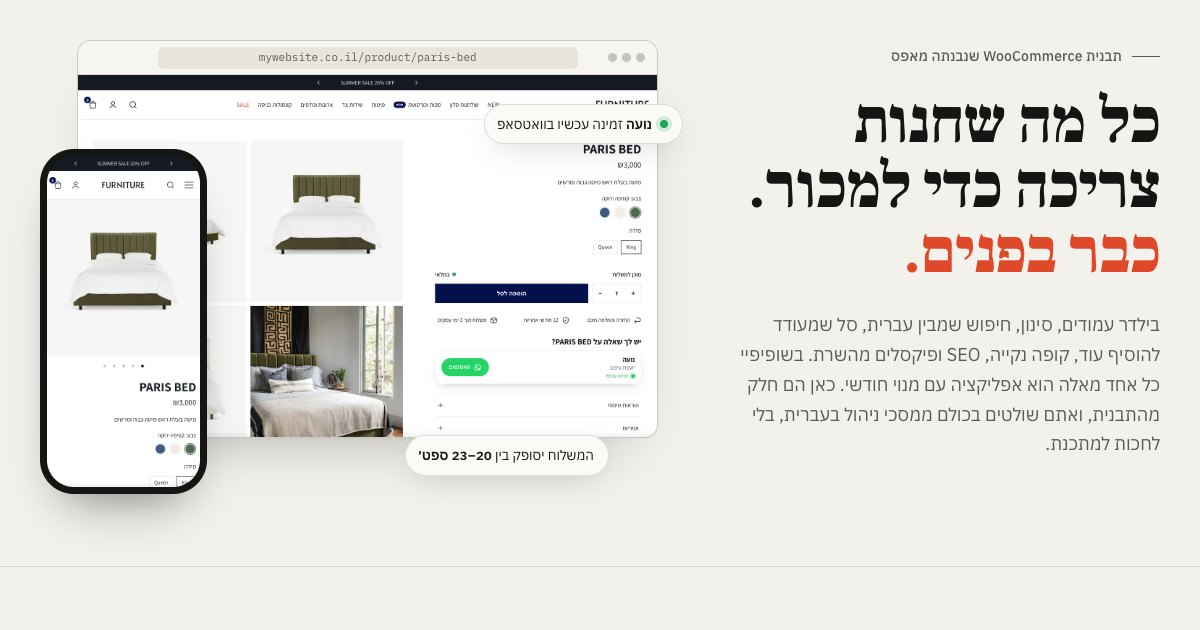
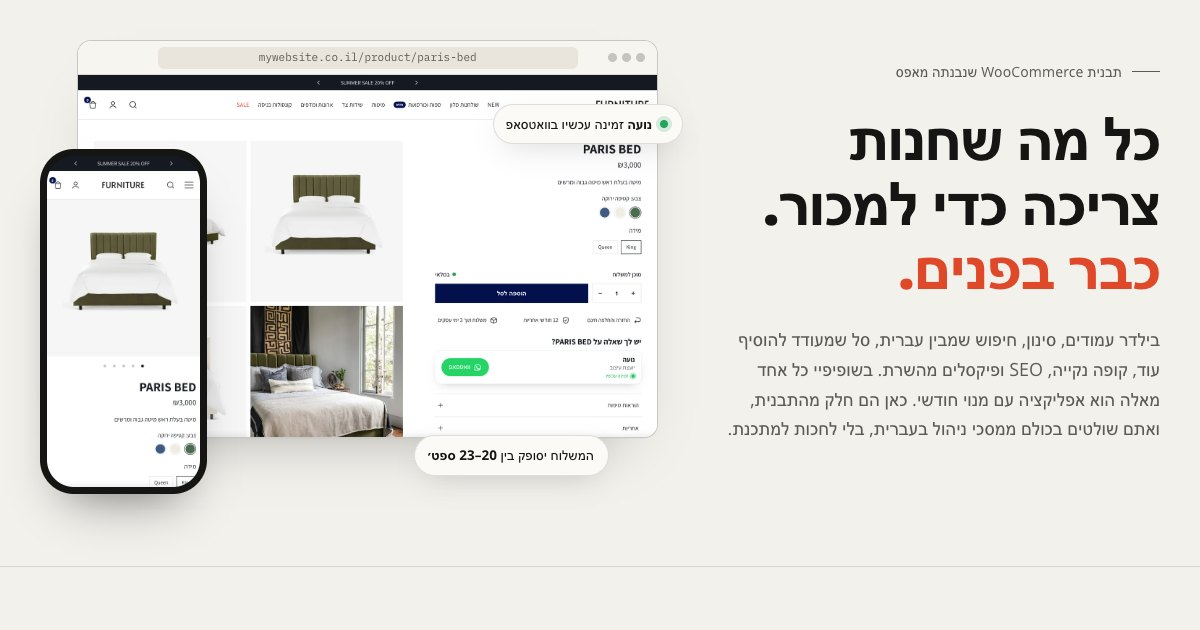
Showcase: Open Sans Hebrew throughout
George asked for Open Sans Hebrew. Headlines, body text and the large
numbers now use it (Google's early-access build: 300/400/700/800);
weights the family lacks map to the nearest one. Monospace stays only
for the address bars and the keyboard example. Preview image re-rendered.

diff --git a/showcase/styles.css b/showcase/styles.css
@@ -6,8 +6,8 @@
   --accent:#E0482A; --accent-2:#FBE3DC;
   --good:#1D6A4A; --good-2:#DDEEE5;
   --dark:#141412; --dark-2:#1D1D1A; --dark-line:rgba(243,241,236,.14); --dark-ink-2:#B4B1A7;
-  --serif:"Frank Ruhl Libre", "David Libre", Georgia, serif;
-  --sans:"IBM Plex Sans Hebrew", "Rubik", "Segoe UI", Arial, sans-serif;
+  --serif:"Open Sans Hebrew", "Open Sans", Arial, sans-serif;
+  --sans:"Open Sans Hebrew", "Open Sans", Arial, sans-serif;
   --mono:"IBM Plex Mono", ui-monospace, Menlo, monospace;
   --wrap:1240px; --gut:clamp(18px,4vw,40px);
   --r:14px;
@@ -29,14 +29,14 @@ button{font:inherit;color:inherit}
 .top.is-stuck{border-bottom-color:var(--line)}
 .top__in{display:flex;align-items:center;gap:22px;height:64px}
 .brand{display:flex;align-items:baseline;gap:10px;text-decoration:none;white-space:nowrap}
-.brand b{font-family:var(--sans);font-weight:600;letter-spacing:-.01em;font-size:17px;direction:ltr}
+.brand b{font-family:var(--sans);font-weight:700;letter-spacing:-.01em;font-size:17px;direction:ltr}
 .brand span{font-family:var(--mono);font-size:10.5px;color:var(--ink-3);letter-spacing:.08em;direction:ltr}
 .chapters{display:flex;gap:2px;margin-inline-start:auto;overflow-x:auto;scrollbar-width:none}
 .chapters::-webkit-scrollbar{display:none}
 .chapters a{font-size:14px;text-decoration:none;color:var(--ink-2);padding:6px 10px;border-radius:999px;white-space:nowrap;transition:color .15s,background .15s}
 .chapters a:hover{color:var(--ink)}
 .chapters a.is-on{background:var(--ink);color:var(--paper)}
-.btn{display:inline-flex;align-items:center;gap:10px;font-weight:600;font-size:15px;text-decoration:none;padding:12px 20px;border-radius:999px;border:1px solid var(--ink);background:var(--ink);color:var(--paper);white-space:nowrap;transition:transform .15s ease,background .15s,color .15s}
+.btn{display:inline-flex;align-items:center;gap:10px;font-weight:700;font-size:15px;text-decoration:none;padding:12px 20px;border-radius:999px;border:1px solid var(--ink);background:var(--ink);color:var(--paper);white-space:nowrap;transition:transform .15s ease,background .15s,color .15s}
 .btn:hover{transform:translateY(-1px)}
 .btn--ghost{background:transparent;color:var(--ink)}
 .btn--ghost:hover{background:var(--ink);color:var(--paper)}
@@ -50,10 +50,10 @@ button{font:inherit;color:inherit}
 /* ---------- hero ---------- */
 .hero{padding-block:clamp(36px,6vw,80px) clamp(40px,6vw,72px)}
 .hero__grid{display:grid;grid-template-columns:minmax(0,5fr) minmax(0,7fr);gap:clamp(28px,5vw,64px);align-items:center}
-.eyebrow{font-family:var(--sans);font-weight:500;font-size:14px;letter-spacing:.01em;color:var(--ink-2);display:flex;align-items:center;gap:10px;margin:0 0 22px}
+.eyebrow{font-family:var(--sans);font-weight:400;font-size:14px;letter-spacing:.01em;color:var(--ink-2);display:flex;align-items:center;gap:10px;margin:0 0 22px}
 .eyebrow::before{content:"";width:28px;height:1px;background:var(--ink-2)}
 h1,h2,h3{font-family:var(--serif);font-weight:700;letter-spacing:-.015em;margin:0}
-h1{font-size:clamp(40px,5.3vw,76px);line-height:1.02;font-weight:900}
+h1{font-size:clamp(38px,5vw,70px);line-height:1.08;font-weight:800;letter-spacing:-.02em}
 h1 em{font-style:normal;color:var(--accent)}
 .hero__lede{font-size:clamp(17px,1.5vw,20px);color:var(--ink-2);max-width:34em;margin:26px 0 30px}
 .hero__cta{display:flex;flex-wrap:wrap;gap:12px}
@@ -63,13 +63,13 @@ h1 em{font-style:normal;color:var(--accent)}
 .chip i{width:8px;height:8px;border-radius:50%;background:#22A45D;box-shadow:0 0 0 4px rgba(34,164,93,.18)}
 .chip--a{inset-inline-start:-4%;top:14%}
 .chip--b{inset-inline-start:8%;bottom:4%}
-.chip b{font-weight:600}
+.chip b{font-weight:700}
 @media (max-width:900px){.hero__grid{grid-template-columns:minmax(0,1fr)}.chip--a{inset-inline-start:2%;top:-12px}}
 
 .facts{display:grid;grid-template-columns:repeat(4,1fr);border-top:1px solid var(--line-2);margin-top:clamp(40px,6vw,72px)}
 .fact{padding:22px 0 0;padding-inline-end:18px}
 .fact + .fact{border-inline-start:1px solid var(--line);padding-inline-start:22px}
-.fact b{display:block;font-family:var(--mono);font-weight:500;font-size:clamp(34px,4vw,52px);line-height:1;letter-spacing:-.03em;direction:ltr;text-align:end}
+.fact b{display:block;font-family:var(--sans);font-weight:800;font-size:clamp(34px,4vw,52px);line-height:1;letter-spacing:-.03em;direction:ltr;text-align:end}
 .fact span{display:block;color:var(--ink-2);font-size:14.5px;margin-top:10px;line-height:1.45}
 @media (max-width:760px){.facts{grid-template-columns:1fr 1fr}.fact:nth-child(3){border-inline-start:0;padding-inline-start:0}.fact:nth-child(n+3){border-top:1px solid var(--line);margin-top:22px}}
 
@@ -87,27 +87,27 @@ h1 em{font-style:normal;color:var(--accent)}
 .admin .browser__url{background:#32373C;color:#C3C4C7}
 .admin .browser__dots i{background:#50575E}
 figcaption{font-size:14px;color:var(--ink-2);margin-top:12px;line-height:1.5}
-figcaption b{color:var(--ink);font-weight:600}
+figcaption b{color:var(--ink);font-weight:700}
 
 /* pins */
 .pinwrap{position:relative}
-.pin{position:absolute;transform:translate(-50%,-50%);width:28px;height:28px;border-radius:50%;background:var(--accent);color:#fff;font-family:var(--mono);font-size:13px;font-weight:500;display:grid;place-items:center;border:2px solid #fff;box-shadow:0 6px 16px -4px rgba(224,72,42,.6);transition:transform .2s;cursor:default;z-index:2}
+.pin{position:absolute;transform:translate(-50%,-50%);width:28px;height:28px;border-radius:50%;background:var(--accent);color:#fff;font-family:var(--sans);font-size:13px;font-weight:400;display:grid;place-items:center;border:2px solid #fff;box-shadow:0 6px 16px -4px rgba(224,72,42,.6);transition:transform .2s;cursor:default;z-index:2}
 .pin::after{content:"";position:absolute;inset:-7px;border-radius:50%;border:2px solid var(--accent);opacity:0;animation:ping 2.4s ease-out infinite}
 @keyframes ping{0%{transform:scale(.6);opacity:.7}80%,100%{transform:scale(1.5);opacity:0}}
 .pin.is-hot{transform:translate(-50%,-50%) scale(1.25)}
 .legend{list-style:none;margin:0;padding:0;counter-reset:lg}
 .legend li{position:relative;padding:14px 0;padding-inline-start:44px;border-top:1px solid var(--line);transition:background .15s}
 .legend li:last-child{border-bottom:1px solid var(--line)}
-.legend li::before{counter-increment:lg;content:counter(lg);position:absolute;inset-inline-start:0;top:14px;width:28px;height:28px;border-radius:50%;background:var(--ink);color:var(--paper);font-family:var(--mono);font-size:13px;display:grid;place-items:center}
+.legend li::before{counter-increment:lg;content:counter(lg);position:absolute;inset-inline-start:0;top:14px;width:28px;height:28px;border-radius:50%;background:var(--ink);color:var(--paper);font-family:var(--sans);font-weight:700;font-size:13px;display:grid;place-items:center}
 .legend li.is-hot::before{background:var(--accent)}
-.legend b{display:block;font-weight:600;margin-bottom:2px}
+.legend b{display:block;font-weight:700;margin-bottom:2px}
 .legend span{color:var(--ink-2);font-size:15.5px}
 
 /* ---------- chapters ---------- */
 .ch{padding-block:clamp(64px,9vw,128px);border-top:1px solid var(--line)}
 .ch-head{display:grid;grid-template-columns:auto minmax(0,1fr);gap:clamp(16px,3vw,40px);align-items:start;margin-bottom:clamp(34px,5vw,60px)}
-.ch-num{font-family:var(--mono);font-size:clamp(46px,6vw,84px);line-height:.9;color:transparent;-webkit-text-stroke:1px var(--ink-2);letter-spacing:-.04em;direction:ltr}
-.kicker{font-family:var(--sans);font-weight:600;font-size:14px;letter-spacing:.01em;color:var(--accent);margin:4px 0 12px}
+.ch-num{font-family:var(--sans);font-weight:300;font-size:clamp(46px,6vw,84px);line-height:.9;color:transparent;-webkit-text-stroke:1px var(--ink-2);letter-spacing:-.04em;direction:ltr}
+.kicker{font-family:var(--sans);font-weight:700;font-size:14px;letter-spacing:.01em;color:var(--accent);margin:4px 0 12px}
 h2{font-size:clamp(34px,4.4vw,60px);line-height:1.04;max-width:16em}
 .lede{font-size:clamp(17px,1.4vw,19.5px);color:var(--ink-2);max-width:40em;margin:18px 0 0}
 @media (max-width:640px){.ch-head{grid-template-columns:minmax(0,1fr)}.ch-num{font-size:40px}}
@@ -121,12 +121,12 @@ h2{font-size:clamp(34px,4.4vw,60px);line-height:1.04;max-width:16em}
 .points{list-style:none;margin:0;padding:0;display:grid;gap:0}
 .points li{padding:13px 0;border-top:1px solid var(--line);padding-inline-start:26px;position:relative;font-size:16.5px}
 .points li::before{content:"";position:absolute;inset-inline-start:2px;top:23px;width:12px;height:1.5px;background:var(--accent)}
-.points li b{font-weight:600}
+.points li b{font-weight:700}
 .points--2{grid-template-columns:1fr 1fr;column-gap:36px}
 @media (max-width:760px){.points--2{grid-template-columns:minmax(0,1fr)}}
 
 .why{position:relative;background:var(--card);border:1px solid var(--line);border-radius:var(--r);padding:22px 24px 22px;margin-top:28px}
-.why__label{display:inline-flex;align-items:center;gap:8px;font-family:var(--sans);font-weight:600;font-size:13.5px;color:var(--accent);margin-bottom:8px}
+.why__label{display:inline-flex;align-items:center;gap:8px;font-family:var(--sans);font-weight:700;font-size:13.5px;color:var(--accent);margin-bottom:8px}
 .why__label::before{content:"?";width:20px;height:20px;border-radius:50%;border:1.5px solid var(--accent);display:grid;place-items:center;font-size:12px;line-height:1}
 .why p{margin:0;font-size:16px;color:var(--ink)}
 .why-row{display:grid;grid-template-columns:repeat(auto-fit,minmax(280px,1fr));gap:18px;margin-top:34px}
@@ -134,7 +134,7 @@ h2{font-size:clamp(34px,4.4vw,60px);line-height:1.04;max-width:16em}
 
 .tags{display:flex;flex-wrap:wrap;gap:8px;margin:0;padding:0;list-style:none}
 .tags li{border:1px solid var(--line-2);border-radius:999px;padding:6px 13px;font-size:14px;background:var(--card);display:flex;gap:8px;align-items:center}
-.tags li .num{font-size:11px;color:var(--ink-3)}
+.tags li .num{font-family:var(--sans);font-size:11.5px;color:var(--ink-3)}
 
 .phones{display:flex;gap:clamp(14px,2.4vw,26px);align-items:flex-start}
 .phones .phone{flex:1;max-width:260px}
@@ -147,14 +147,14 @@ h2{font-size:clamp(34px,4.4vw,60px);line-height:1.04;max-width:16em}
 
 /* statement */
 .statement{padding-block:clamp(60px,8vw,110px);border-top:1px solid var(--line)}
-.statement p{font-family:var(--serif);font-size:clamp(28px,3.6vw,48px);line-height:1.25;margin:0;max-width:22em;font-weight:500}
+.statement p{font-family:var(--serif);font-size:clamp(26px,3.2vw,44px);line-height:1.3;margin:0;max-width:24em;font-weight:300}
 .statement p span{color:var(--ink-3)}
 
 /* questions grid (product) */
 .qgrid{display:grid;grid-template-columns:repeat(2,minmax(0,1fr));gap:clamp(16px,2.4vw,24px);margin-top:clamp(40px,5vw,64px)}
 .q{background:var(--card);border:1px solid var(--line);border-radius:var(--r);padding:clamp(20px,2.4vw,30px)}
 .q h3{font-size:clamp(24px,2.3vw,32px);line-height:1.1;margin-bottom:6px}
-.q .qk{font-family:var(--sans);font-weight:500;font-size:13px;color:var(--ink-3)}
+.q .qk{font-family:var(--sans);font-weight:400;font-size:13px;color:var(--ink-3)}
 .q .points li{font-size:15.5px}
 @media (max-width:820px){.qgrid{grid-template-columns:minmax(0,1fr)}}
 
@@ -177,26 +177,26 @@ h2{font-size:clamp(34px,4.4vw,60px);line-height:1.04;max-width:16em}
 .kbd{display:flex;align-items:center;gap:16px;flex-wrap:wrap;margin:26px 0 8px;font-size:15px}
 .kbd kbd{font-family:var(--mono);font-size:20px;border:1px solid var(--dark-line);border-bottom-width:3px;border-radius:8px;padding:6px 12px;background:var(--dark-2);direction:ltr}
 .kbd .arrow{color:var(--accent);font-family:var(--mono)}
-.kbd strong{font-family:var(--serif);font-size:30px;font-weight:700}
+.kbd strong{font-family:var(--serif);font-size:30px;font-weight:800}
 
 /* backstage tabs */
 .tabs{display:grid;grid-template-columns:minmax(0,4fr) minmax(0,8fr);gap:clamp(24px,4vw,48px);align-items:start}
 .tablist{display:flex;flex-direction:column;border-top:1px solid var(--dark-line)}
 .tablist button{all:unset;cursor:pointer;display:grid;grid-template-columns:auto 1fr;gap:4px 14px;padding:16px 4px;border-bottom:1px solid var(--dark-line);transition:background .15s}
-.tablist button .num{grid-row:span 2;font-size:12px;color:var(--dark-ink-2);padding-top:5px}
+.tablist button .num{grid-row:span 2;font-family:var(--sans);font-size:12px;color:var(--dark-ink-2);padding-top:5px}
 .tablist button b{font-family:var(--serif);font-size:22px;font-weight:700;line-height:1.2}
 .tablist button span:last-child{color:var(--dark-ink-2);font-size:14.5px;line-height:1.5;display:none}
 .tablist button[aria-selected="true"] b{color:var(--accent)}
 .tablist button[aria-selected="true"] span:last-child{display:block}
 .tablist button:focus-visible{outline:2px solid var(--accent);outline-offset:-2px}
 .tabpanels{position:sticky;top:90px}
-@media (max-width:900px){.tabs{grid-template-columns:minmax(0,1fr)}.tabpanels{position:static}.tablist{flex-direction:row;overflow-x:auto;border:0;gap:8px;scrollbar-width:none}.tablist button{border:1px solid var(--dark-line);border-radius:999px;padding:8px 14px;display:block;white-space:nowrap}.tablist button .num,.tablist button span:last-child{display:none!important}.tablist button b{font-family:var(--sans);font-size:14.5px;font-weight:500}}
+@media (max-width:900px){.tabs{grid-template-columns:minmax(0,1fr)}.tabpanels{position:static}.tablist{flex-direction:row;overflow-x:auto;border:0;gap:8px;scrollbar-width:none}.tablist button{border:1px solid var(--dark-line);border-radius:999px;padding:8px 14px;display:block;white-space:nowrap}.tablist button .num,.tablist button span:last-child{display:none!important}.tablist button b{font-family:var(--sans);font-size:14.5px;font-weight:400}}
 .panel-note{margin-top:16px;color:var(--dark-ink-2);font-size:15.5px;max-width:48em}
 .panel-note b{color:var(--paper)}
 
 .more-admin{margin-top:clamp(40px,5vw,64px);display:grid;grid-template-columns:repeat(auto-fill,minmax(230px,1fr));gap:1px;background:var(--dark-line);border:1px solid var(--dark-line);border-radius:var(--r);overflow:hidden}
 .more-admin div{background:var(--dark);padding:18px 20px}
-.more-admin b{display:block;font-weight:600;font-size:15.5px}
+.more-admin b{display:block;font-weight:700;font-size:15.5px}
 .more-admin span{display:block;color:var(--dark-ink-2);font-size:14px;line-height:1.5;margin-top:3px}
 
 /* speed */
@@ -206,12 +206,12 @@ h2{font-size:clamp(34px,4.4vw,60px);line-height:1.04;max-width:16em}
 .score circle{fill:none;stroke-width:7}
 .score .bg{stroke:var(--paper-2)}
 .score .fg{stroke:var(--good);stroke-linecap:round;transition:stroke-dashoffset 1.4s cubic-bezier(.2,.7,.2,1)}
-.score b{position:absolute;top:22px;inset-inline-start:20px;width:92px;height:92px;display:grid;place-items:center;font-family:var(--mono);font-size:28px;font-weight:500;letter-spacing:-.03em}
+.score b{position:absolute;top:22px;inset-inline-start:20px;width:92px;height:92px;display:grid;place-items:center;font-family:var(--sans);font-size:28px;font-weight:700;letter-spacing:-.03em}
 .score span{font-size:14.5px;color:var(--ink-2);line-height:1.45;display:block}
-.score strong{display:block;font-weight:600;color:var(--ink);font-size:15.5px}
+.score strong{display:block;font-weight:700;color:var(--ink);font-size:15.5px}
 @media (max-width:900px){.scores{grid-template-columns:1fr 1fr}}
 .metrics{display:flex;flex-wrap:wrap;gap:10px 28px;margin-top:22px;font-size:15px;color:var(--ink-2)}
-.metrics b{font-family:var(--mono);color:var(--ink);font-weight:500;direction:ltr;unicode-bidi:isolate}
+.metrics b{font-family:var(--sans);color:var(--ink);font-weight:700;direction:ltr;unicode-bidi:isolate}
 
 /* compare */
 .compare{background:var(--card);border:1px solid var(--line-2);border-radius:18px;overflow:hidden}
@@ -220,32 +220,32 @@ h2{font-size:clamp(34px,4.4vw,60px);line-height:1.04;max-width:16em}
 .tbl-scroll{overflow-x:auto}
 table{border-collapse:collapse;width:100%;min-width:720px}
 th,td{padding:13px 18px;text-align:start;border-bottom:1px solid var(--line);vertical-align:middle;font-size:15.5px}
-thead th{font-family:var(--sans);font-size:13px;font-weight:600;color:var(--ink-3);background:var(--paper)}
+thead th{font-family:var(--sans);font-size:13px;font-weight:700;color:var(--ink-3);background:var(--paper)}
 td.app{color:var(--ink-2);font-size:14px}
 td.app a{text-decoration:none;border-bottom:1px dotted var(--ink-3)}
-td.price{font-family:var(--mono);direction:ltr;text-align:end;white-space:nowrap;color:var(--ink)}
+td.price{font-family:var(--sans);font-feature-settings:"tnum";direction:ltr;text-align:end;white-space:nowrap;color:var(--ink)}
 th.price{text-align:end}
 td.ours{text-align:center;white-space:nowrap}
 th.ours{text-align:center}
-.inc{display:inline-flex;align-items:center;gap:6px;background:var(--good-2);color:var(--good);font-weight:600;font-size:13.5px;border-radius:999px;padding:4px 11px}
+.inc{display:inline-flex;align-items:center;gap:6px;background:var(--good-2);color:var(--good);font-weight:700;font-size:13.5px;border-radius:999px;padding:4px 11px}
 .inc svg{width:13px;height:13px}
 tbody tr{transition:background .15s}
 tbody tr:hover{background:var(--paper)}
 tbody tr.reveal{opacity:0;transform:translateY(6px)}
 tbody tr.reveal.in{opacity:1;transform:none;transition:opacity .45s ease,transform .45s ease}
 tfoot td{border-bottom:0;background:var(--ink);color:var(--paper);font-size:16px;padding-block:20px}
-tfoot td.price{color:var(--paper);font-size:clamp(22px,2.6vw,30px);font-weight:500}
+tfoot td.price{color:var(--paper);font-size:clamp(22px,2.6vw,30px);font-weight:400}
 tfoot .inc{background:var(--good);color:#fff;font-size:15px;padding:6px 14px}
 .extras{display:grid;grid-template-columns:repeat(3,1fr);gap:1px;background:var(--line);border-top:1px solid var(--line)}
 .extras div{background:var(--card);padding:18px 22px}
-.extras b{display:block;font-family:var(--mono);font-weight:500;font-size:22px;direction:ltr;text-align:end}
+.extras b{display:block;font-family:var(--sans);font-weight:700;font-size:22px;direction:ltr;text-align:end}
 .extras span{display:block;font-size:14px;color:var(--ink-2);line-height:1.5;margin-top:4px}
 @media (max-width:760px){.extras{grid-template-columns:minmax(0,1fr)}}
 .fine{font-size:13.5px;color:var(--ink-3);margin-top:14px;line-height:1.6}
 
 /* closing */
 .closing{background:var(--accent);color:#fff;padding-block:clamp(70px,10vw,140px)}
-.closing h2{max-width:14em;font-size:clamp(40px,5.4vw,76px);font-weight:900}
+.closing h2{max-width:14em;font-size:clamp(36px,5vw,68px);font-weight:800}
 .closing p{font-size:clamp(17px,1.5vw,20px);max-width:36em;margin:22px 0 34px;color:rgba(255,255,255,.9)}
 .closing .btn{background:#fff;color:var(--ink);border-color:#fff}
 .closing .btn--ghost{background:transparent;color:#fff;border-color:rgba(255,255,255,.7)}
@@ -306,7 +306,7 @@ body{overflow-x:clip}
   thead{display:none}
   tbody tr{display:grid;grid-template-columns:minmax(0,1fr) auto;column-gap:12px;padding:12px 16px;border-bottom:1px solid var(--line)}
   tbody td{border:0;padding:0}
-  tbody td:first-child{grid-column:1;grid-row:1;font-weight:500}
+  tbody td:first-child{grid-column:1;grid-row:1;font-weight:400}
   tbody td.app{grid-column:1;grid-row:2;font-size:13px;margin-top:2px}
   tbody td.price{grid-column:2;grid-row:1 / span 2;align-self:center;font-size:15px}
   tbody td.ours{display:none}

diff --git a/showcase/index.html b/showcase/index.html
@@ -12,8 +12,9 @@
 <meta name="theme-color" content="#F3F1EC">
 <link rel="preconnect" href="https://fonts.googleapis.com">
 <link rel="preconnect" href="https://fonts.gstatic.com" crossorigin>
-<link href="https://fonts.googleapis.com/css2?family=Frank+Ruhl+Libre:wght@500;700;900&family=IBM+Plex+Mono:wght@400;500&family=IBM+Plex+Sans+Hebrew:wght@400;500;600&display=swap" rel="stylesheet">
-<link rel="stylesheet" href="styles.css?v=1789644624">
+<link href="https://fonts.googleapis.com/earlyaccess/opensanshebrew.css" rel="stylesheet">
+<link href="https://fonts.googleapis.com/css2?family=IBM+Plex+Mono:wght@400;500&display=swap" rel="stylesheet">
+<link rel="stylesheet" href="styles.css?v=1789645664">
 <link rel="preload" as="image" href="img/d-product.webp" fetchpriority="high">
 <script>document.documentElement.classList.remove('no-js')</script>
 </head>
@@ -638,6 +639,6 @@
 <a class="wa-float" href="https://wa.me/972544570027?text=%D7%94%D7%99%D7%99%2C%20%D7%A8%D7%90%D7%99%D7%AA%D7%99%20%D7%90%D7%AA%20%D7%A2%D7%9E%D7%95%D7%93%20%D7%94%D7%99%D7%9B%D7%95%D7%9C%D7%95%D7%AA%20%D7%A9%D7%9C%20%D7%94%D7%97%D7%A0%D7%95%D7%AA%20%D7%95%D7%90%D7%A9%D7%9E%D7%97%20%D7%9C%D7%A9%D7%9E%D7%95%D7%A2%20%D7%A2%D7%95%D7%93" target="_blank" rel="noopener" aria-label="שלחו לנו הודעה בוואטסאפ"><svg viewBox="0 0 24 24" aria-hidden="true"><path fill="currentColor" d="M12 2a10 10 0 0 0-8.6 15.1L2 22l5-1.3A10 10 0 1 0 12 2zm0 18.2a8.2 8.2 0 0 1-4.2-1.2l-.3-.2-3 .8.8-2.9-.2-.3A8.2 8.2 0 1 1 12 20.2zm4.5-6.1c-.2-.1-1.5-.7-1.7-.8s-.4-.1-.6.1-.7.8-.8 1-.3.2-.5.1a6.7 6.7 0 0 1-3.3-2.9c-.3-.4.2-.4.7-1.4a.5.5 0 0 0 0-.4l-.8-1.8c-.2-.5-.4-.4-.6-.4h-.5a1 1 0 0 0-.7.3 3 3 0 0 0-.9 2.2 5.1 5.1 0 0 0 1.1 2.7 11.6 11.6 0 0 0 4.5 4c1.7.7 2.3.8 3.1.6a2.7 2.7 0 0 0 1.8-1.2 2.2 2.2 0 0 0 .1-1.2c0-.1-.2-.2-.4-.3z"/></svg></a>
 
 <dialog class="lb" aria-label="תמונה מוגדלת"><button type="button">סגירה</button><img alt=""></dialog>
-<script src="app.js?v=1789644624" defer></script>
+<script src="app.js?v=1789645664" defer></script>
 </body>
 </html>
